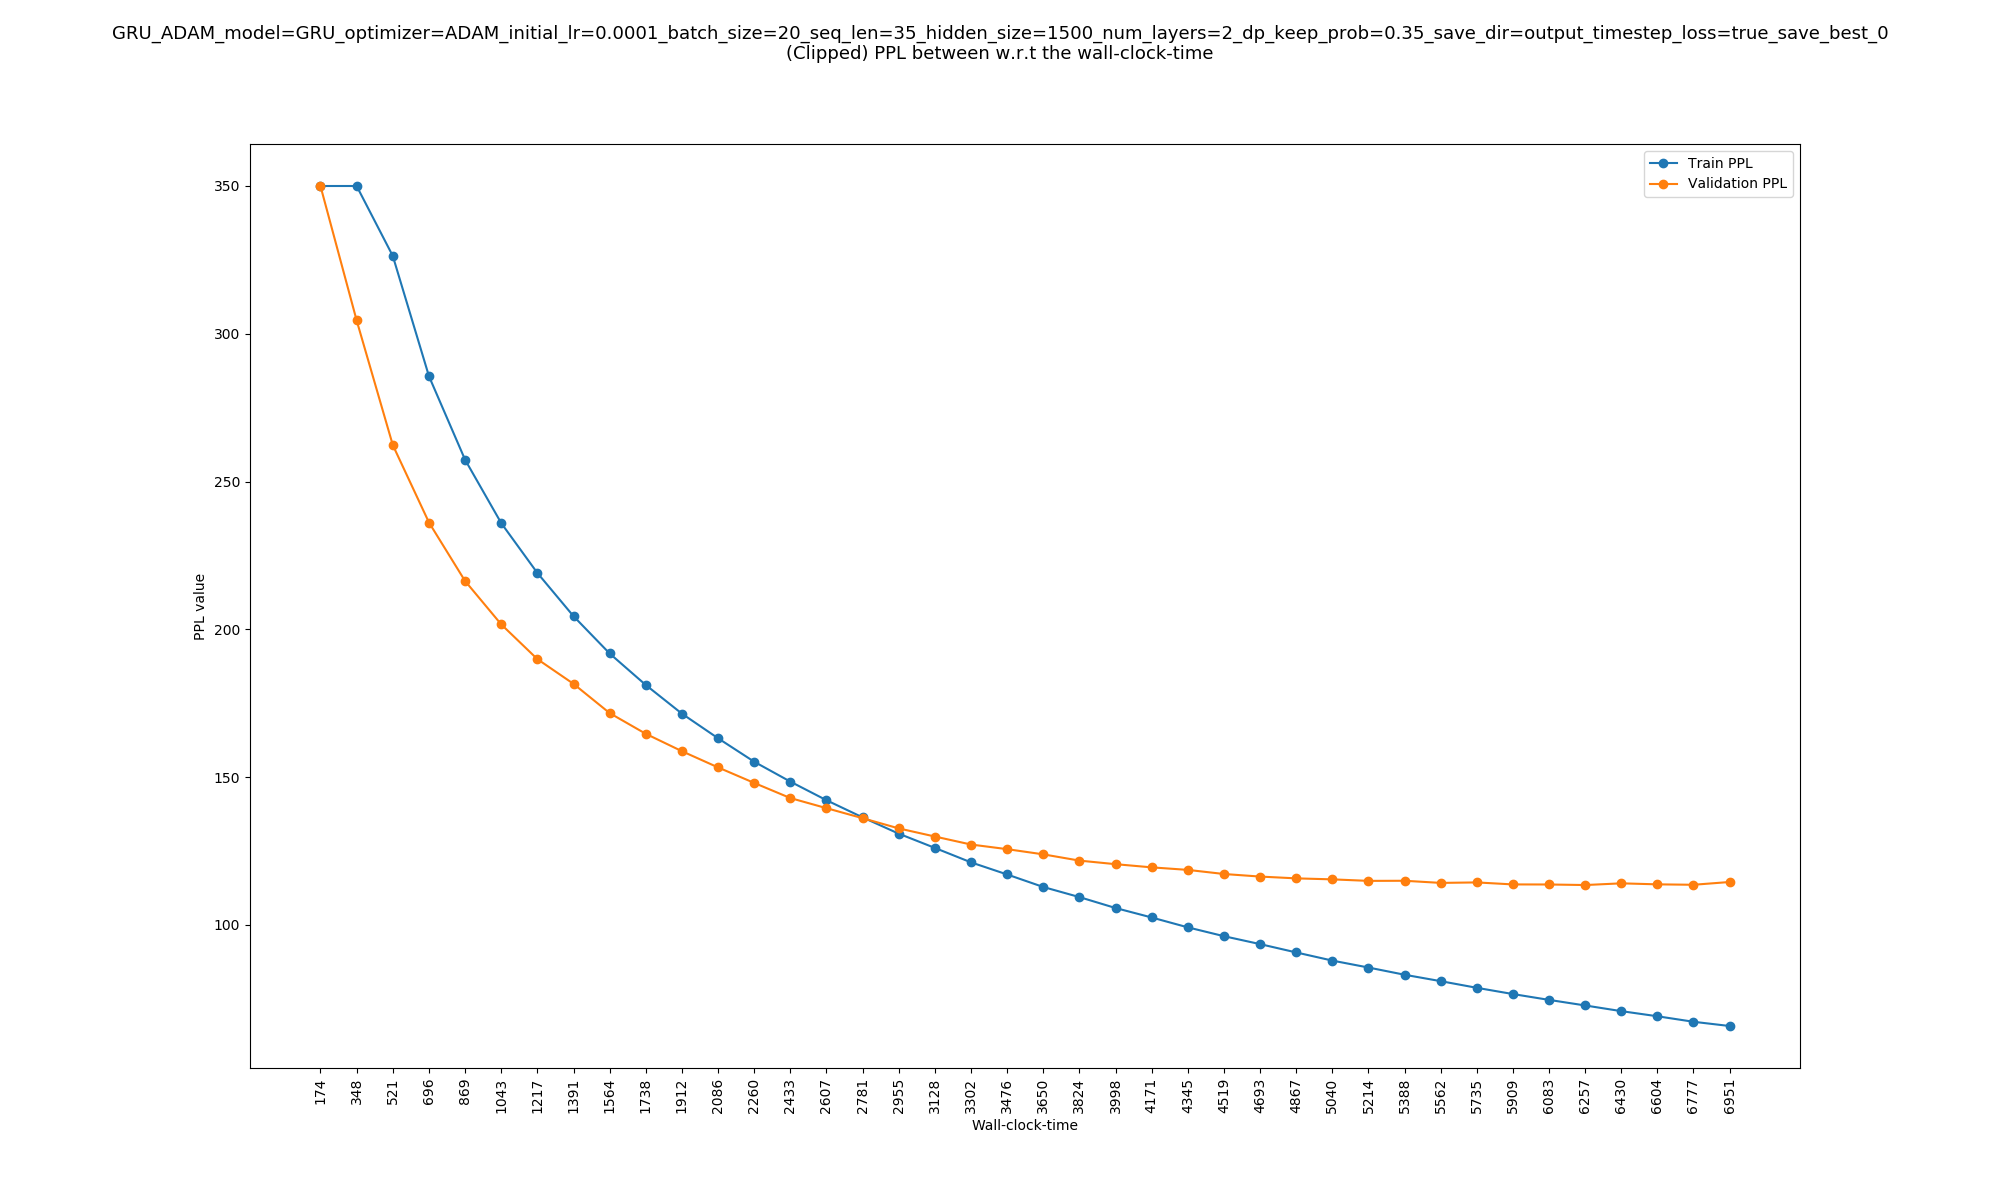
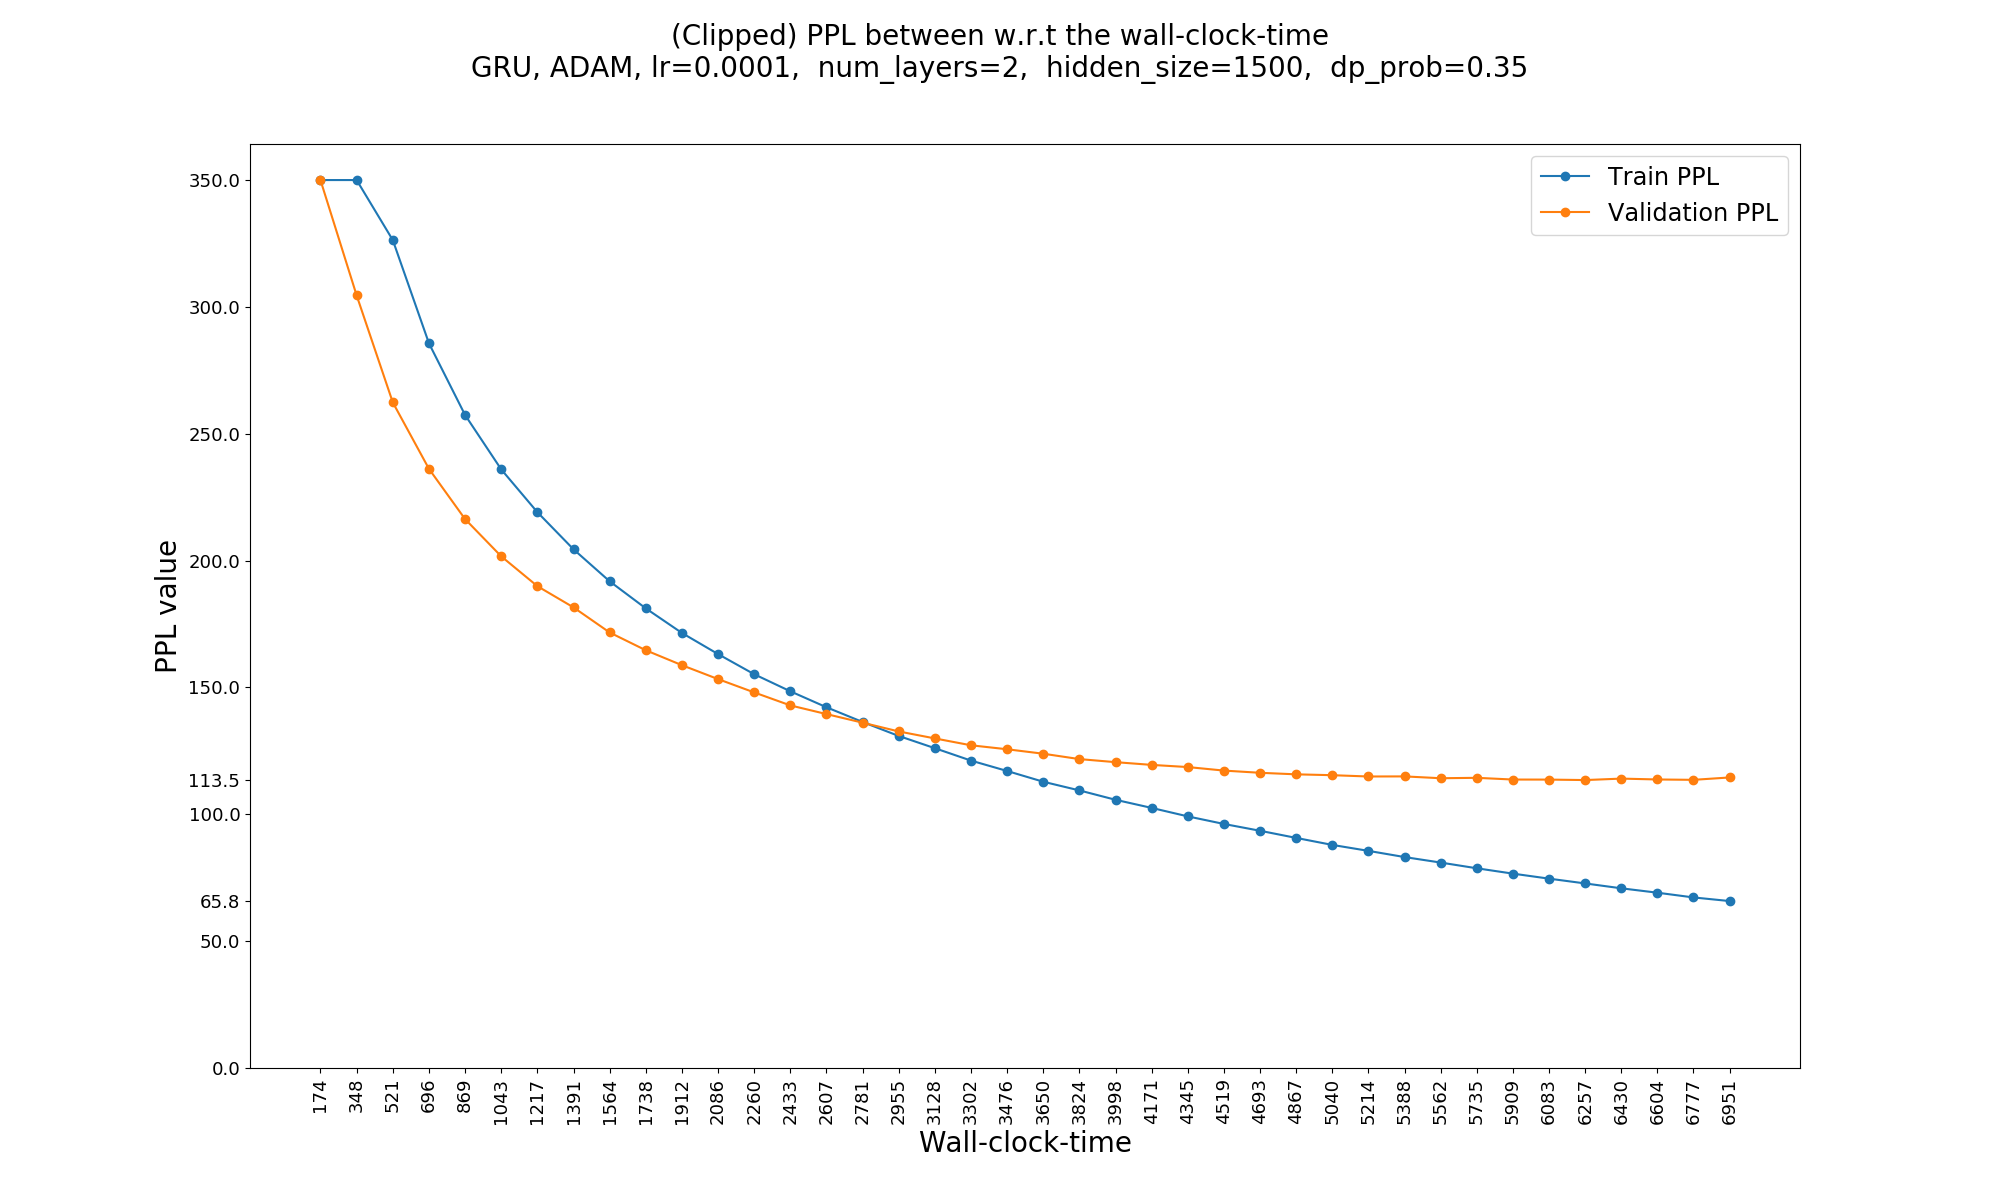
Some plot updates

diff --git a/visualization.py b/visualization.py
@@ -27,18 +27,18 @@ def plots(train_losses, val_losses, train_ppls, val_ppls, epoch_times, experimen
     label_font_size = 20
     ticks_font_size = 13
 
-    plt.figure(1, figsize=(20, 12))
-    train_losses_index = [(i % temp) == (temp-1 ) for i in range(len(train_losses))]
-    val_losses_index = [(i % temp2 )== (temp2-1) for i in range(len(val_losses))]
-    plt.plot(epochs, train_losses[train_losses_index], label="Train Losses (end)", marker='o' )
-    plt.plot(epochs, val_losses[val_losses_index], label="Validation Losses", marker='o' )
-    plt.xlabel("Epoch number")
-    plt.ylabel("Loss value")
-    plt.xticks(epochs,rotation='vertical')
-    plt.suptitle(experiment+ '\n' + "Training and Validation losses at the end of each epoch", fontsize=13)
-    plt.legend(fontsize = 'xx-large')
-    saveFig(directory+'/losees.png')
-    plt.close()
+    # plt.figure(1, figsize=(20, 12))
+    # train_losses_index = [(i % temp) == (temp-1 ) for i in range(len(train_losses))]
+    # val_losses_index = [(i % temp2 )== (temp2-1) for i in range(len(val_losses))]
+    # plt.plot(epochs, train_losses[train_losses_index], label="Train Losses (end)", marker='o' )
+    # plt.plot(epochs, val_losses[val_losses_index], label="Validation Losses", marker='o' )
+    # plt.xlabel("Epoch number")
+    # plt.ylabel("Loss value")
+    # plt.xticks(epochs,rotation='vertical')
+    # plt.suptitle(experiment+ '\n' + "Training and Validation losses at the end of each epoch", fontsize=13)
+    # plt.legend(fontsize = 'xx-large')
+    # saveFig(directory+'/losees.png')
+    # plt.close()
 
     plt.figure(2, figsize=(20, 12))
     plt.plot(epoch_times, np.clip(train_ppls, 50, 350), label="Train PPL", marker='o' )
@@ -70,10 +70,9 @@ def summarize_plots(train_losses, val_losses, train_ppls, val_ppls, epoch_times,
     ytickss = np.arange(0, 400, 50)
     maxx = int(max(epoch_times[0][-1], epoch_times[1][-1]))
     xticks = np.array(np.arange(0, maxx, 250))
-    xticks = np.append(xticks, maxx)
+    xticks = np.append(xticks, int(maxx))
     for i in range(len(train_ppls)):
-        yticks = np.append(ytickss, np.array([np.min(np.clip(val_ppls[i], 50, 350)), np.min(np.clip(train_ppls[i], 50, 350))],dtype=np.float) )
-        # xticks = np.append(xticks, epoch_times[i])
+        ytickss = np.append(ytickss, np.array([np.min(np.clip(val_ppls[i], 50, 350)), np.min(np.clip(train_ppls[i], 50, 350))],dtype=np.float) )
     label_font_size = 20
     ticks_font_size = 13
 
@@ -124,10 +123,10 @@ def files_exits(directory):
     return False 
 
 def generate_experiment_string(args):
-    return str(args["model"]) + ", " + str(args["optimizer"]) + ", lr=" + str(args["initial_lr"] )+ ",  num_layers=" +  str(args["num_layers"]) + ",  hidden_size=" + str(args["hidden_size"])
+    return str(args["model"]) + ", " + str(args["optimizer"]) + ", lr=" + str(args["initial_lr"] )+ ",  num_layers=" +  str(args["num_layers"]) + ",  hidden_size=" + str(args["hidden_size"]) +  ",  dp_prob=" + str(args["dp_keep_prob"])
 
-def main():
-    directories = glob.glob("/home/mehrzaed/Workspace/IFT6135/Projects/assignment2/output/Performance/Adam, 0.0001, 1500, 2, 0_35/*")
+def main(address):
+    directories = glob.glob(address)
     for directory in directories:
         if(files_exits(directory)):
             print(directory)
@@ -139,8 +138,8 @@ def main():
             train_ppls, val_ppls, train_losses, val_losses = [x['train_ppls'], x['val_ppls'], x['train_losses'], x['val_losses'] ]
             plots(train_losses, val_losses, train_ppls, val_ppls, epoch_times, experiment, directory)
 
-def summarize_models():
-    directories = glob.glob("output/Performance/Adam, 0.0001, 1500, 2, 0_35/*")
+def summarize_models(address):
+    directories = glob.glob(address)
     train_ppls_list, val_ppls_list, train_losses_list, val_losses_list, experiment_list, directory_list, epoch_times_list = [], [], [], [], [], [], []
     for directory in directories:
         if(files_exits(directory)):
@@ -162,5 +161,7 @@ def summarize_models():
     
     summarize_plots(train_losses_list, val_losses_list, train_ppls_list, val_ppls_list, epoch_times_list, experiment_list, directory_list)
 
-summarize_models()
+address = 'results/4_2/*'
+main(address)
+# summarize_models(address)
 print('Done...')

diff --git a/observations.md b/observations.md
@@ -1,0 +1,6 @@
++ RNN with ADAM, is very **sensitive to the learning rate**; in most of the conditions, it learned with a lr greater than 0.0001. 
+  + Only in one condition it learned: 
+
++ GRU is more robust to the optimizer (since with the same architecture as RNN, it could learn with 0.001 learning rate)
+
++ 
